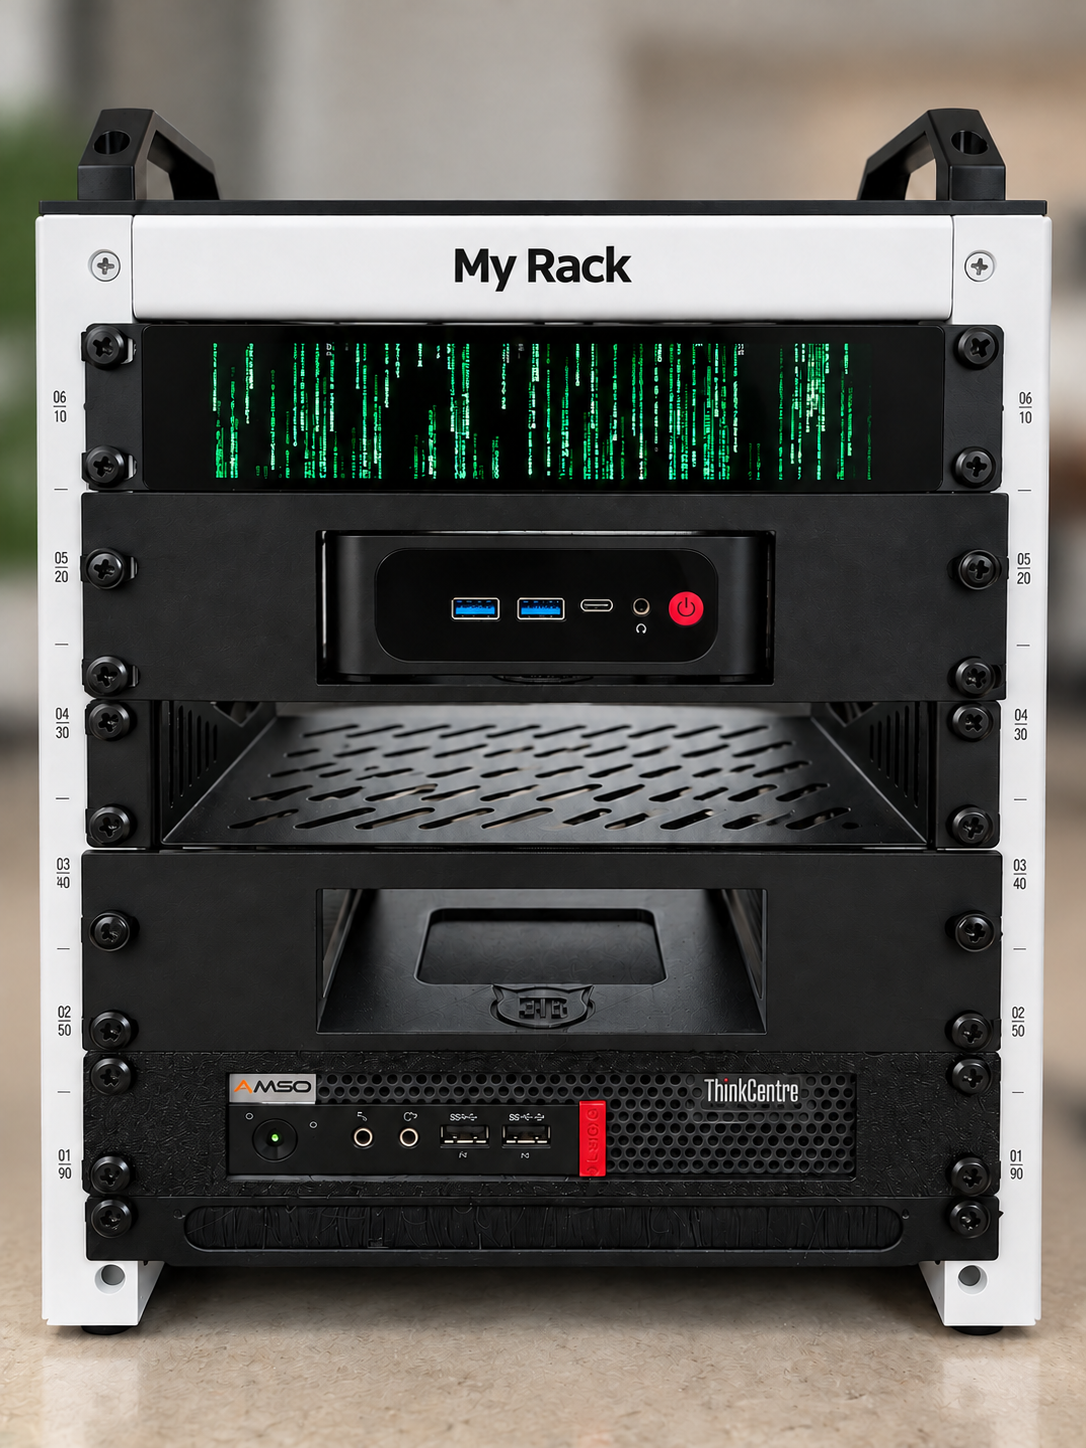
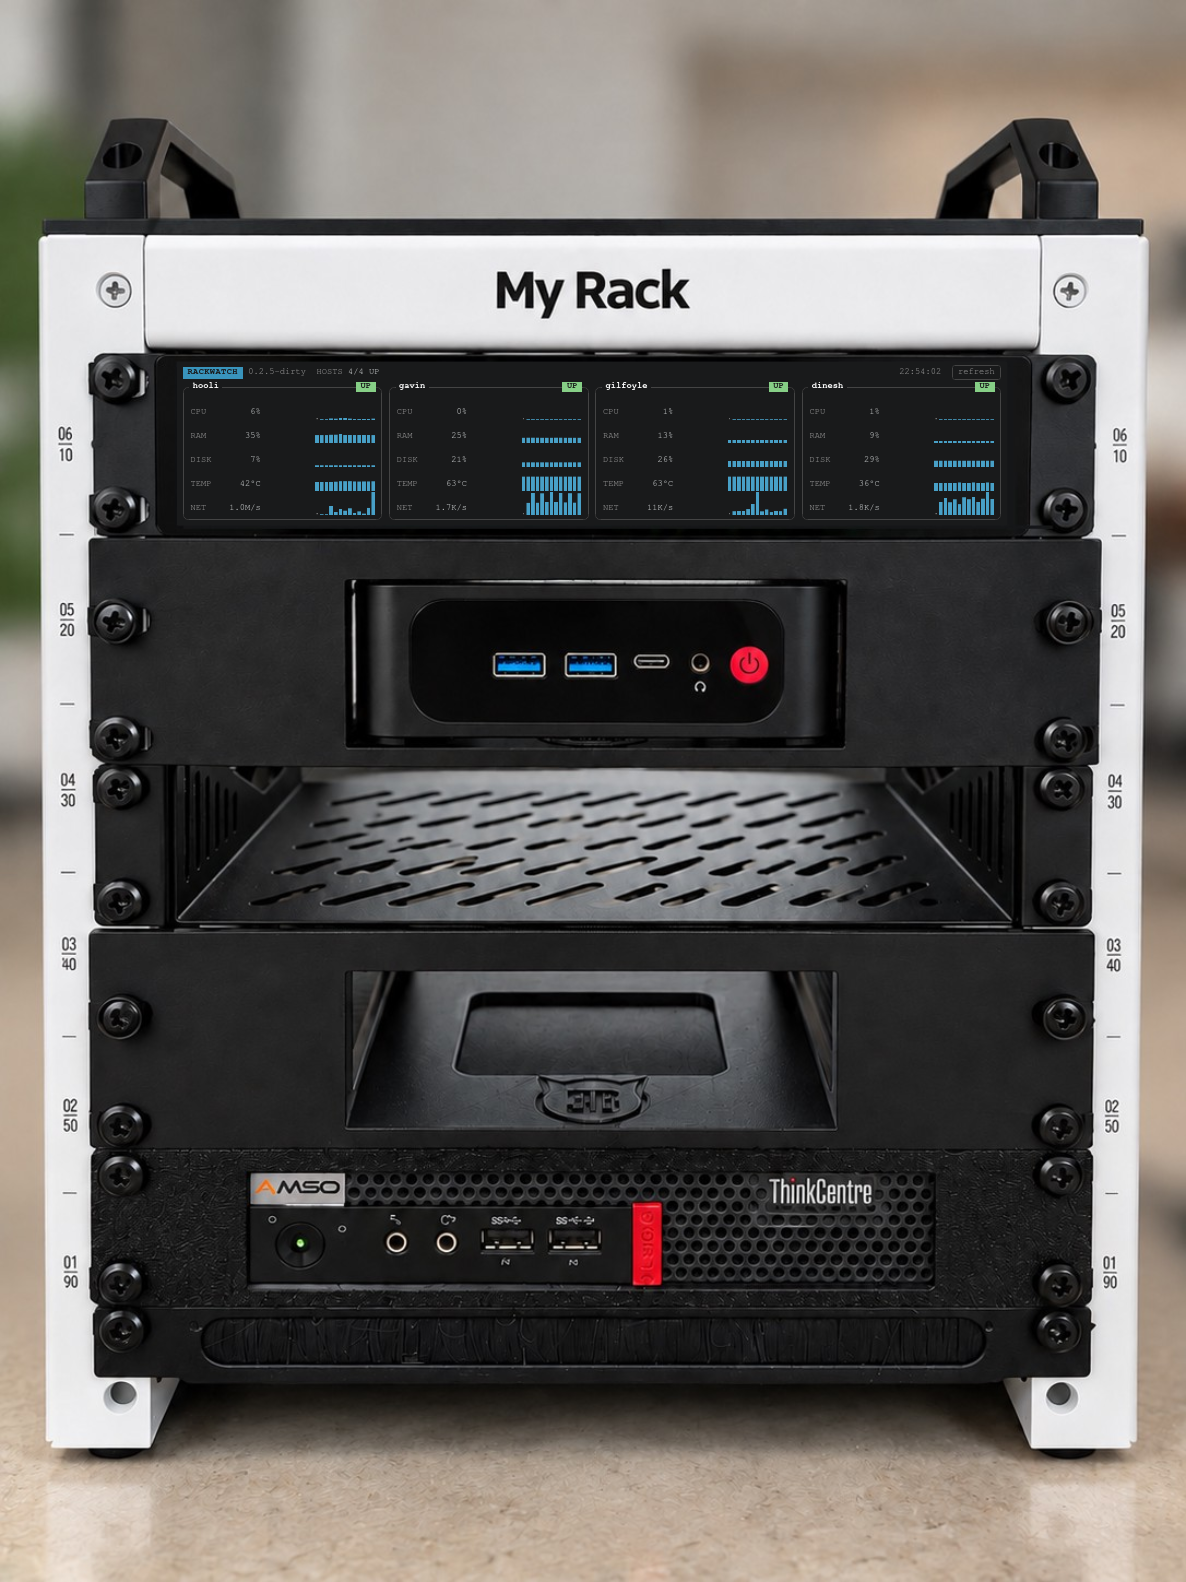
add screenshots

diff --git a/README.md b/README.md
@@ -12,7 +12,15 @@
   <img alt="MIT license" src="https://img.shields.io/badge/License-MIT-green"/>
 </p>
 <p align="center">
-  <img src="images/screenshot.png" alt="rackwatch screenshot"/>
+  <img src="images/screen.png" alt="rackwatch screen/console, archaic theme"/>
+  <br/>
+  <small>Screen/Console (theme: archaic)</small>
+</p>
+<hr/>
+<p align="center">
+  <img src="images/web.png" alt="rackwatch web, default theme"/>
+  <br/>
+  <small>Web (theme: default)</small>
 </p>
 <!-- markdownlint-enable MD033 -->
 
@@ -403,9 +411,11 @@ git tag "$NEW_VERSION" && git push origin "$NEW_VERSION"
 
 <!-- markdownlint-disable MD033 -->
 <p align="center">
-    <img alt="My Rack" src="images/my-rack.png" width="66%"/>
+    <img alt="My Rack Screensaver" src="images/my-rack-screensaver.png"/>
     <br/>
-    <small>(GPT-Image-2.5 enhanced my real image.)</small>
+    <small>(GPT-Image-2.5 enhanced my real images.)</small>
+    <br/>
+    <img alt="My Rack" src="images/my-rack.png"/>
 </p>
 
 For rackmount 3D prints, I can recommend [3B Print](https://3b-print.eu/).
